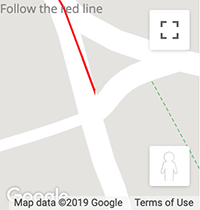
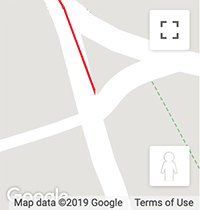
updated images

Changed region(s): [[0.0, 0.0, 0.51, 0.0857]]

diff --git a/public/javascripts/SVLabel/src/SVLabel/onboarding/Onboarding.js b/public/javascripts/SVLabel/src/SVLabel/onboarding/Onboarding.js
@@ -174,7 +174,7 @@ function Onboarding(svl, audioEffect, compass, form, handAnimation, mapService, 
             }
         ];
         map.setOptions({styles: mapStyleOptions});
-        document.getElementById("google-maps-holder").style.backgroundImage = "url('"+ svl.rootDirectory + "img/onboarding/tut1.jpg')";
+        document.getElementById("google-maps-holder").style.backgroundImage = "url('"+ svl.rootDirectory + "img/onboarding/TutorialMiniMap.jpg')";
     }
 
     function renderRoutesOnGoogleMap(state) {
